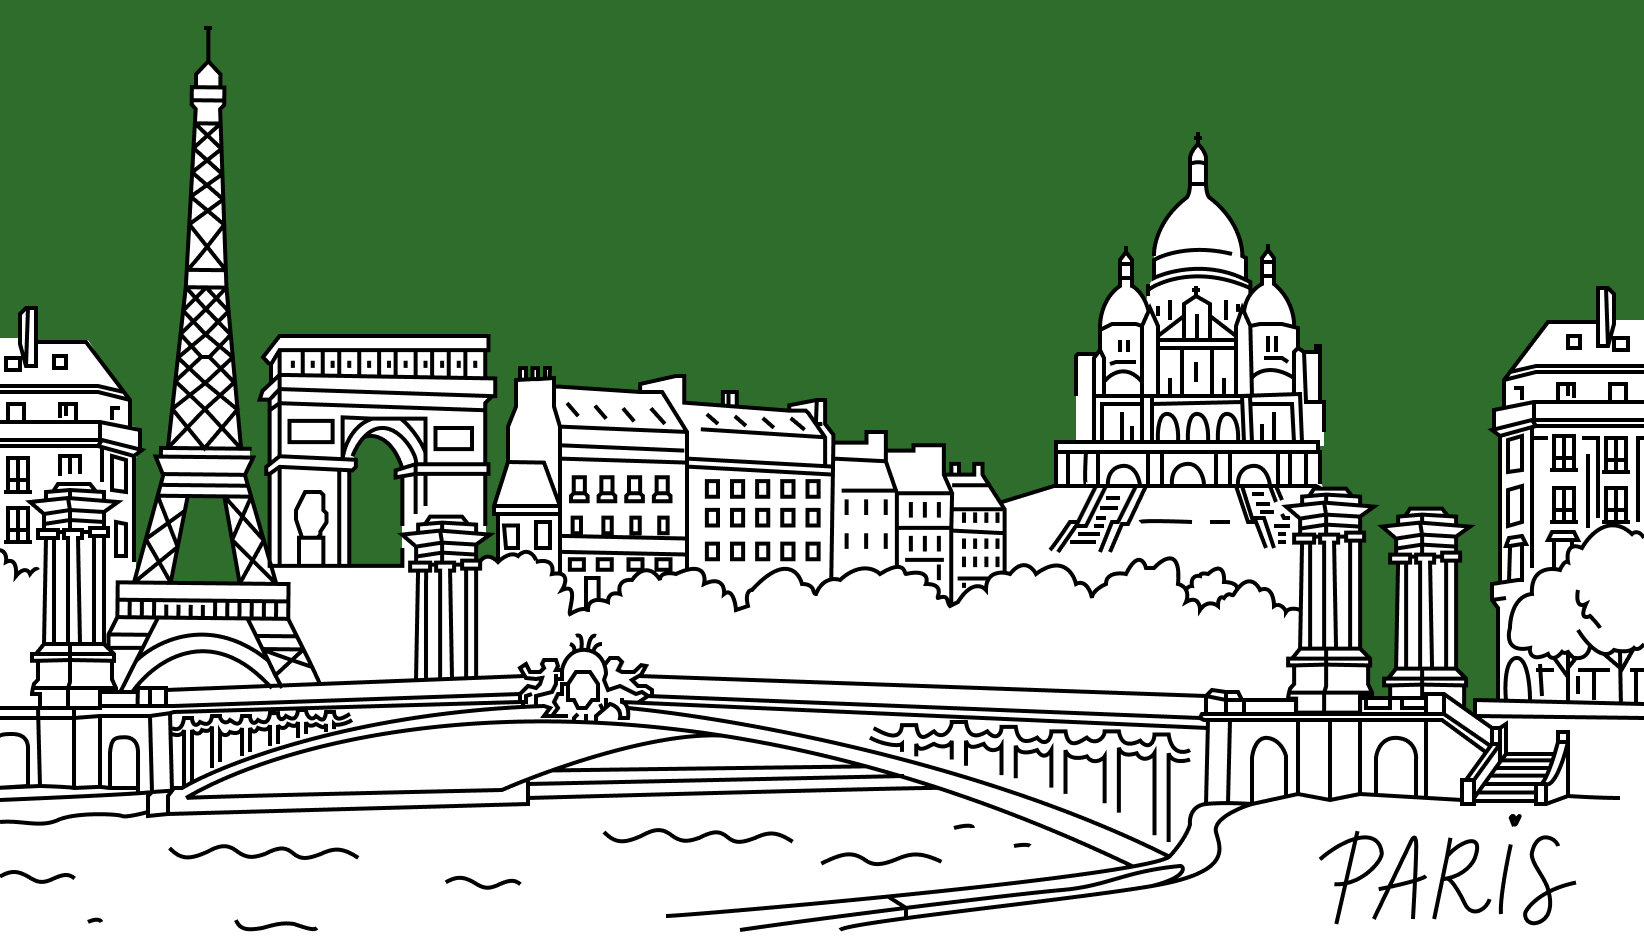
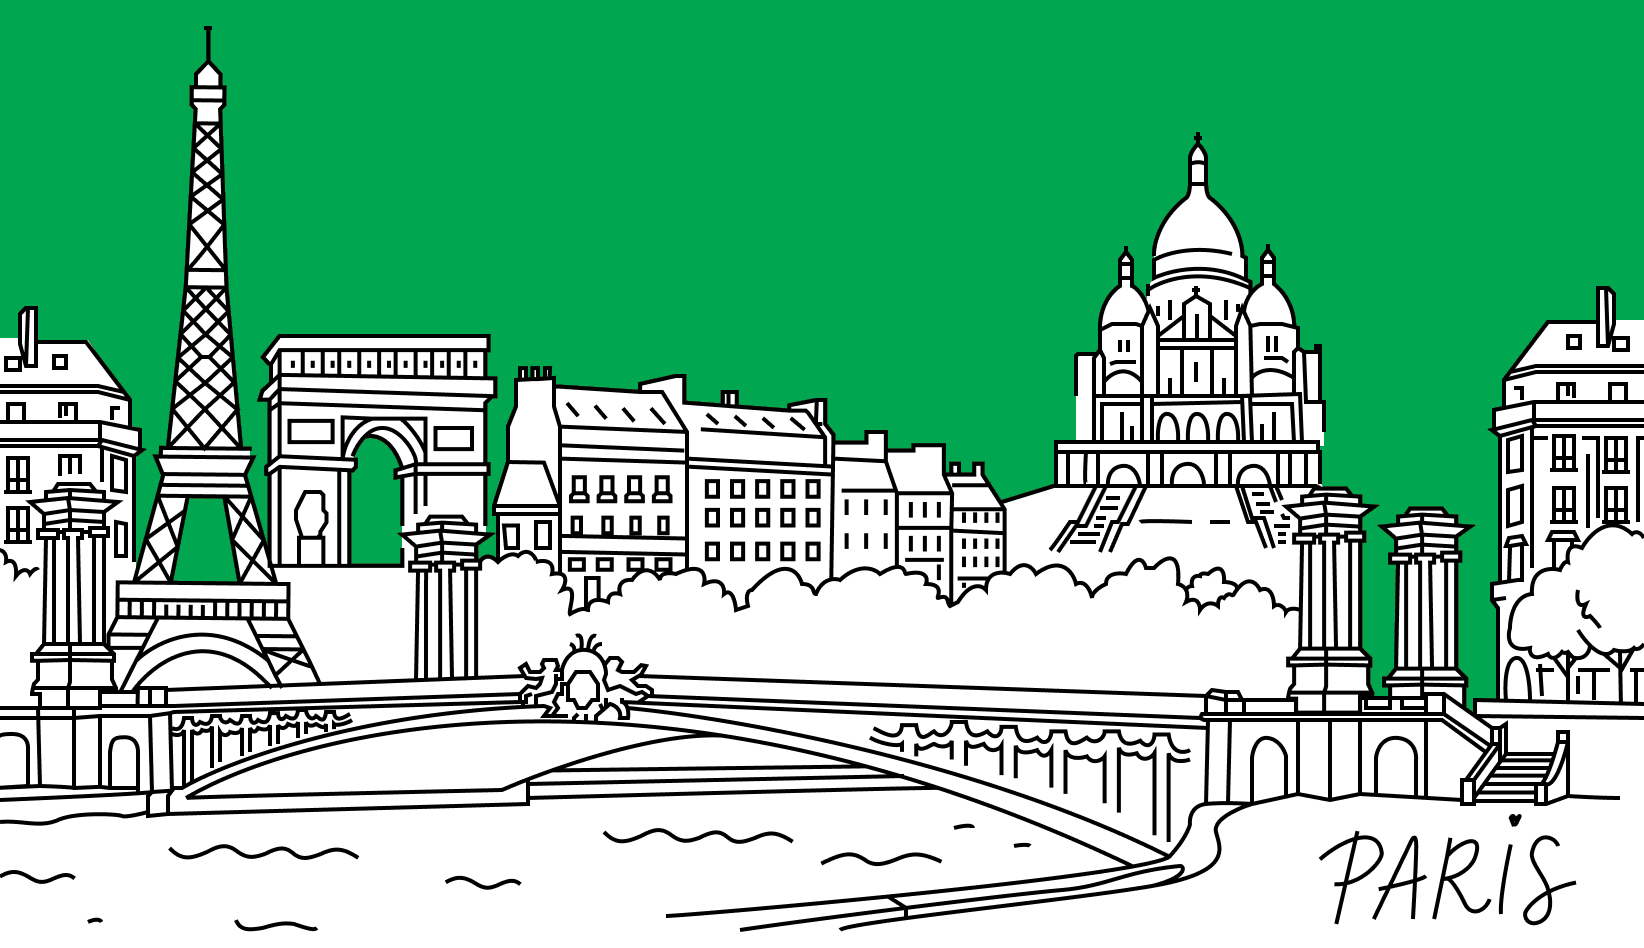
Update location images and add profile functionality. Replace color schemes in PNG assets for New York and Paris locations. Introduce ProfileView with user name editing and reset functionality in DebugMenuView.

diff --git a/Views/Profile/ProfileView.swift b/Views/Profile/ProfileView.swift
@@ -1,0 +1,144 @@
+import SwiftUI
+
+struct ProfileView: View {
+    @Environment(\.dismiss) private var dismiss
+    @Environment(\.colorScheme) private var colorScheme
+    @AppStorage("userName") private var userName = ""
+
+    @State private var isEditingName = false
+    @State private var editingText = ""
+    @State private var selectedFilter = "All Time"
+    @State private var stampImage: UIImage?
+
+    // Stamps will be populated in a future update
+    private let stamps: [String] = []
+
+    private var filterOptions: [String] {
+        let options = ["All Time"]
+        // Years from collected stamps will be appended here
+        return options
+    }
+
+    var body: some View {
+        VStack(spacing: 0) {
+            header
+            Divider()
+            filterBar
+            if stamps.isEmpty {
+                emptyState
+            }
+        }
+        .presentationDetents([.medium, .large])
+        .presentationDragIndicator(.visible)
+        .presentationBackground(.regularMaterial)
+        .alert("Your Name", isPresented: $isEditingName) {
+            TextField("Enter your name", text: $editingText)
+            Button("Save") { saveName() }
+            Button("Cancel", role: .cancel) { editingText = userName }
+        }
+        .onAppear { loadStampImage() }
+        .onChange(of: colorScheme) { _, _ in loadStampImage() }
+    }
+
+    private var header: some View {
+        HStack(alignment: .center, spacing: 14) {
+            Image(systemName: "person.crop.circle")
+                .font(.system(size: 52))
+                .foregroundStyle(.secondary)
+
+            VStack(alignment: .leading, spacing: 3) {
+                Button {
+                    editingText = userName
+                    isEditingName = true
+                } label: {
+                    Text(userName.isEmpty ? "Add your name" : userName)
+                        .font(.headline)
+                        .foregroundStyle(userName.isEmpty ? .tertiary : .primary)
+                }
+                .buttonStyle(.plain)
+
+                Text("My Stamp Book")
+                    .font(.subheadline)
+                    .foregroundStyle(.secondary)
+            }
+
+            Spacer()
+
+            Button {
+                dismiss()
+            } label: {
+                Image(systemName: "xmark")
+                    .fontWeight(.semibold)
+            }
+        }
+        .padding(.horizontal, 20)
+        .padding(.top, 24)
+        .padding(.bottom, 16)
+    }
+
+    private var filterBar: some View {
+        ScrollView(.horizontal, showsIndicators: false) {
+            HStack(spacing: 8) {
+                ForEach(filterOptions, id: \.self) { option in
+                    Button {
+                        selectedFilter = option
+                    } label: {
+                        Text(option)
+                            .font(.subheadline)
+                            .fontWeight(.medium)
+                            .padding(.horizontal, 14)
+                            .padding(.vertical, 7)
+                            .background(
+                                selectedFilter == option
+                                    ? Color.secondary.opacity(0.28)
+                                    : Color.secondary.opacity(0.12)
+                            )
+                            .foregroundStyle(.primary)
+                            .clipShape(Capsule())
+                    }
+                    .buttonStyle(.plain)
+                }
+            }
+            .padding(.horizontal, 20)
+            .padding(.vertical, 12)
+        }
+    }
+
+    @ViewBuilder
+    private var emptyState: some View {
+        VStack(spacing: 20) {
+            Spacer()
+
+            if let img = stampImage {
+                Image(uiImage: img)
+                    .resizable()
+                    .aspectRatio(contentMode: .fit)
+                    .frame(width: 280)
+                    .frame(maxWidth: .infinity, alignment: .center)
+            }
+
+            VStack(spacing: 8) {
+                Text("Start Your Journey")
+                    .font(.headline)
+
+                Text("When you visit new towns, cities, or attractions, you'll collect stamps to remember every adventure.")
+                    .font(.subheadline)
+                    .foregroundStyle(.secondary)
+                    .multilineTextAlignment(.center)
+                    .padding(.horizontal, 40)
+            }
+
+            Spacer()
+        }
+        .frame(maxWidth: .infinity)
+    }
+
+    private func saveName() {
+        userName = editingText.trimmingCharacters(in: .whitespaces)
+    }
+
+    private func loadStampImage() {
+        let pngName = colorScheme == .dark ? "StampSplashDark" : "StampSplash"
+        stampImage = UIImage(named: pngName)
+    }
+}

diff --git a/Views/DebugMenuView.swift b/Views/DebugMenuView.swift
@@ -2,6 +2,7 @@ import SwiftUI
 
 struct DebugMenuView: View {
     @Environment(\.dismiss) private var dismiss
+    @AppStorage("userName") private var userName = ""
 
     let onRetriggerTooltip: () -> Void
     let onRestartOnboarding: () -> Void
@@ -14,6 +15,19 @@ struct DebugMenuView: View {
                         onRetriggerTooltip()
                     } label: {
                         Label("Retrigger demo button tooltip", systemImage: "arrow.counterclockwise")
+                    }
+                }
+
+                Section("Profile") {
+                    Button(role: .destructive) {
+                        userName = ""
+                    } label: {
+                        Label {
+                            Text("Reset name")
+                        } icon: {
+                            Image(systemName: "person.crop.circle.badge.minus")
+                                .foregroundStyle(.red)
+                        }
                     }
                 }
 
@@ -40,5 +54,6 @@ struct DebugMenuView: View {
         }
         .presentationDetents([.medium])
         .presentationDragIndicator(.visible)
+        .presentationBackground(.regularMaterial)
     }
 }

diff --git a/Views/BottomSheet/BottomSheetView.swift b/Views/BottomSheet/BottomSheetView.swift
@@ -14,6 +14,7 @@ struct BottomSheetView: View {
     @ObservedObject var searchCompleter: SearchCompleter
 
     @State private var destinationName: String?
+    @State private var showProfilePanel = false
 
     var body: some View {
         VStack(spacing: 0) {
@@ -22,6 +23,7 @@ struct BottomSheetView: View {
                 searchText: $searchText,
                 selectedBikePoint: $selectedBikePoint,
                 selectedDetent: $selectedDetent,
+                showProfilePanel: $showProfilePanel,
                 midDetent: midDetent,
                 destinationName: destinationName
             )
@@ -57,6 +59,9 @@ struct BottomSheetView: View {
             Spacer(minLength: 0)
         }
         .frame(maxHeight: .infinity, alignment: .top)
+        .sheet(isPresented: $showProfilePanel) {
+            ProfileView()
+        }
         .onChange(of: searchText) { _, newValue in
             searchCompleter.searchQuery = newValue
         }

diff --git a/Views/BottomSheet/SheetHeader.swift b/Views/BottomSheet/SheetHeader.swift
@@ -6,6 +6,7 @@ struct SheetHeader: View {
     @Binding var searchText: String
     @Binding var selectedBikePoint: BikePoint?
     @Binding var selectedDetent: PresentationDetent
+    @Binding var showProfilePanel: Bool
     let midDetent: PresentationDetent
     let destinationName: String?
     @FocusState private var isSearchFocused: Bool
@@ -35,6 +36,14 @@ struct SheetHeader: View {
                 .padding(.vertical, 8)
                 .background(.quaternary.opacity(0.5))
                 .clipShape(RoundedRectangle(cornerRadius: 10))
+
+                Button {
+                    showProfilePanel = true
+                } label: {
+                    Image(systemName: "person.crop.circle")
+                        .font(.system(size: 26))
+                        .foregroundStyle(.secondary)
+                }
 
             case .searchResults:
                 Button {

diff --git a/Views/Onboarding/AboutScreen.swift b/Views/Onboarding/AboutScreen.swift
@@ -57,7 +57,6 @@ struct AboutScreen: View {
                             .aspectRatio(contentMode: .fit)
                             .frame(height: sectionImageHeight * 1.6)
                             .opacity(0.5)
-                            .padding(.bottom, -16)
                     }
 
                     Text("Bikes Across Your City")
@@ -107,7 +106,6 @@ struct AboutScreen: View {
                             .aspectRatio(contentMode: .fit)
                             .frame(height: sectionImageHeight * 1.6)
                             .opacity(0.5)
-                            .padding(.bottom, -16)
                     }
 
                     Text("Open Protocol")

diff --git a/scripts/update_location_images.py b/scripts/update_location_images.py
@@ -1,0 +1,94 @@
+#!/usr/bin/env python3
+"""
+Update location PNG images with new color scheme:
+- Dark images: black (#000000) -> #1C1C1C
+- Paris highlighted: #2D6A2B -> #00A650
+- New York highlighted: #271A88 -> #00396C
+"""
+
+import os
+import sys
+
+try:
+    from PIL import Image
+except ImportError:
+    print("Pillow is required. Install with: pip install Pillow")
+    sys.exit(1)
+
+RESOURCES = os.path.join(os.path.dirname(__file__), "..", "Resources")
+
+# Color mappings (R, G, B)
+BLACK = (0, 0, 0)
+DARK_BG = (28, 28, 28)  # #1C1C1C
+PARIS_GREEN_OLD = (45, 106, 43)   # #2D6A2B
+PARIS_GREEN_NEW = (0, 166, 80)    # #00A650
+NY_BLUE_OLD = (39, 26, 136)       # #271A88
+NY_BLUE_NEW = (0, 57, 108)        # #00396C
+
+# Tolerance for color matching (for anti-aliasing/compression)
+TOLERANCE = 3
+
+
+def color_distance(c1, c2):
+    return sum(abs(a - b) for a, b in zip(c1[:3], c2[:3]))
+
+
+def matches_color(pixel, target, tolerance=TOLERANCE):
+    """Check if pixel (r,g,b) or (r,g,b,a) matches target within tolerance."""
+    return color_distance(pixel[:3], target) <= tolerance * 3
+
+
+def replace_colors_in_image(img, replacements):
+    """Replace colors in image. replacements: list of (old_rgb, new_rgb) tuples."""
+    img = img.convert("RGBA")
+    pixels = img.load()
+    w, h = img.size
+    for y in range(h):
+        for x in range(w):
+            p = pixels[x, y]
+            r, g, b, a = p
+            for old_rgb, new_rgb in replacements:
+                if matches_color((r, g, b), old_rgb):
+                    pixels[x, y] = (*new_rgb, a)
+                    break
+    return img
+
+
+def process_image(path, is_dark, is_paris_highlighted, is_ny_highlighted):
+    if not os.path.isfile(path):
+        print(f"  Skip (not found): {path}")
+        return
+    img = Image.open(path).convert("RGBA")
+    replacements = []
+    if is_dark:
+        replacements.append((BLACK, DARK_BG))
+    if is_paris_highlighted:
+        replacements.append((PARIS_GREEN_OLD, PARIS_GREEN_NEW))
+    if is_ny_highlighted:
+        replacements.append((NY_BLUE_OLD, NY_BLUE_NEW))
+    if not replacements:
+        print(f"  Skip (no changes): {os.path.basename(path)}")
+        return
+    out = replace_colors_in_image(img, replacements)
+    out.save(path, "PNG")
+    print(f"  Updated: {os.path.basename(path)}")
+
+
+def main():
+    os.chdir(RESOURCES)
+    files = [
+        ("NewYorkLocationDark.png", True, False, False),
+        ("NewYorkLocationDarkHighlighted.png", True, False, True),
+        ("NewYorkLocationLight.png", False, False, False),
+        ("NewYorkLocationLightHighlighted.png", False, False, True),
+        ("ParisLocationDark.png", True, False, False),
+        ("ParisLocationDarkHighlighted.png", True, True, False),
+        ("ParisLocationLight.png", False, False, False),
+        ("ParisLocationLightHighlighted.png", False, True, False),
+    ]
+    for filename, is_dark, is_paris_hl, is_ny_hl in files:
+        process_image(os.path.join(RESOURCES, filename), is_dark, is_paris_hl, is_ny_hl)
+
+
+if __name__ == "__main__":
+    main()
